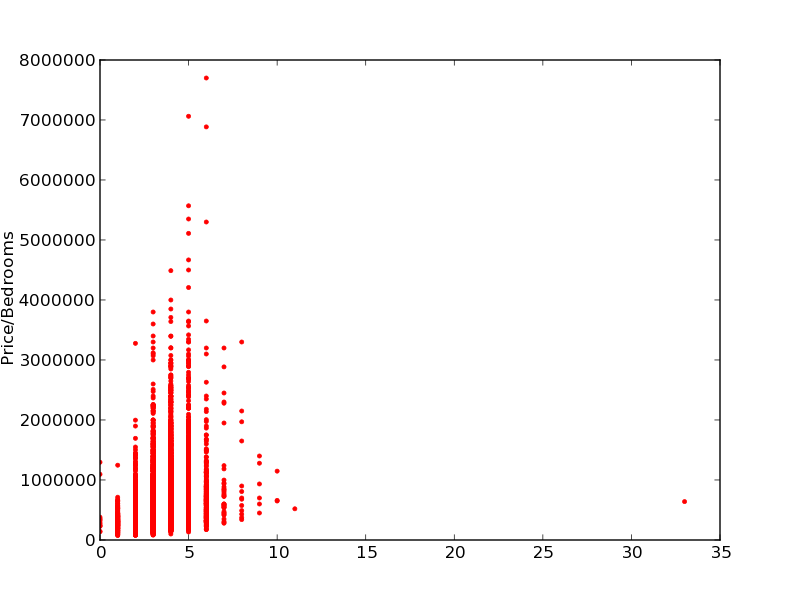
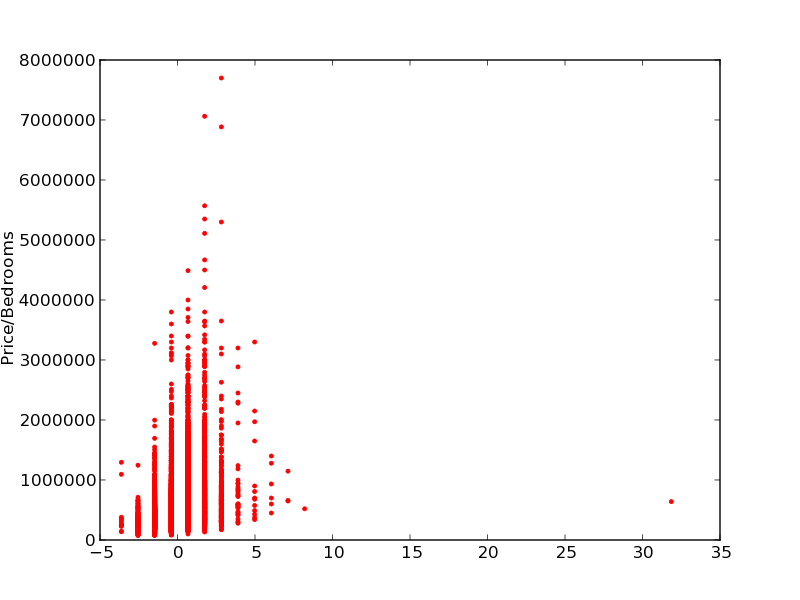
m

diff --git a/house_price/predict.py b/house_price/predict.py
@@ -18,27 +18,240 @@ def get_timestamp(date):
     timestamp = time.mktime(datetime.datetime.strptime(date, "%Y%m%d").timetuple())
     return timestamp
 
+def deviation_score(x, data):
+    return (x - numpy.mean(data)) / numpy.std(data, ddof = 1)
+
 def plot_date(data):
     py = data['price']
     px = [get_timestamp(date) for date in data['date']]
-    plt.plot([numpy.log(x) for x in px], [numpy.log(y) for y in py], 'r.')
+    mean_px = numpy.mean(px)
+    std_px = numpy.std(px)
+    fx = lambda x : (x - mean_px) / std_px
+    plt.plot([fx(x) for x in px], py, 'r.')
     plt.ylabel('Price/Date')
-    plt.savefig('price-date_transform.png')
+    plt.savefig('price-date.png')
     plt.clf()
     
 def plot_bedrooms(data):
     py = data['price']
     px = data['bedrooms']
-    #plt.plot([numpy.log(x) for x in px], [numpy.log(y) for y in py], 'r.')
-    plt.plot(px, [numpy.log(y) for y in py], 'r.')
+    mean_px = numpy.mean(px)
+    std_px = numpy.std(px)
+    fx = lambda x : (x - mean_px) / std_px
+    plt.plot([fx(x) for x in px], py, 'r.')
     plt.ylabel('Price/Bedrooms')
-    plt.savefig('price-bedrooms_transform.png')
+    plt.savefig('price-bedrooms.png')
+    plt.clf()
+
+def plot_bathrooms(data):
+    py = data['price']
+    px = data['bathrooms']
+    mean_px = numpy.mean(px)
+    std_px = numpy.std(px)
+    fx = lambda x : (x - mean_px) / std_px
+    plt.plot([fx(x) for x in px], py, 'r.')
+    plt.ylabel('Price/Bathrooms')
+    plt.savefig('price-bathrooms.png')
+    plt.clf()
+
+def plot_sqft_living(data):
+    py = data['price']
+    px = data['sqft_living']
+    mean_px = numpy.mean(px)
+    std_px = numpy.std(px)
+    fx = lambda x : (x - mean_px) / std_px
+    plt.plot([fx(x) for x in px], py, 'r.')
+    plt.ylabel('Price/sqft_living')
+    plt.savefig('price-sqft_living.png')
+    plt.clf()
+
+def plot_sqft_lot(data):
+    py = data['price']
+    px = data['sqft_lot']
+    mean_px = numpy.mean(px)
+    std_px = numpy.std(px)
+    fx = lambda x : (x - mean_px) / std_px
+    plt.plot([fx(x) for x in px], py, 'r.')
+    plt.ylabel('Price/sqft_lot')
+    plt.savefig('price-sqft_lot.png')
+    plt.clf()
+
+def plot_floors(data):
+    py = data['price']
+    px = data['floors']
+    mean_px = numpy.mean(px)
+    std_px = numpy.std(px)
+    fx = lambda x : (x - mean_px) / std_px
+    plt.plot([fx(x) for x in px], py, 'r.')
+    plt.ylabel('Price/Floors')
+    plt.savefig('price-floors.png')
+    plt.clf()
+
+def plot_waterfront(data):
+    py = data['price']
+    px = data['waterfront']
+    mean_px = numpy.mean(px)
+    std_px = numpy.std(px)
+    fx = lambda x : (x - mean_px) / std_px
+    plt.plot([fx(x) for x in px], py, 'r.')
+    plt.ylabel('Price/Waterfront')
+    plt.savefig('price-waterfront.png')
+    plt.clf()
+
+def plot_view(data):
+    py = data['price']
+    px = data['view']
+    mean_px = numpy.mean(px)
+    std_px = numpy.std(px)
+    fx = lambda x : (x - mean_px) / std_px
+    plt.plot([fx(x) for x in px], py, 'r.')
+    plt.ylabel('Price/View')
+    plt.savefig('price-view.png')
+    plt.clf()
+
+def plot_condition(data):
+    py = data['price']
+    px = data['condition']
+    mean_px = numpy.mean(px)
+    std_px = numpy.std(px)
+    fx = lambda x : (x - mean_px) / std_px
+    plt.plot([fx(x) for x in px], py, 'r.')
+    plt.ylabel('Price/Condition')
+    plt.savefig('price-condition.png')
+    plt.clf()
+
+def plot_grade(data):
+    py = data['price']
+    px = data['grade']
+    mean_px = numpy.mean(px)
+    std_px = numpy.std(px)
+    fx = lambda x : (x - mean_px) / std_px
+    plt.plot([fx(x) for x in px], py, 'r.')
+    plt.ylabel('Price/Grade')
+    plt.savefig('price-grade.png')
+    plt.clf()
+
+def plot_sqft_above(data):
+    py = data['price']
+    px = data['sqft_above']
+    mean_px = numpy.mean(px)
+    std_px = numpy.std(px)
+    fx = lambda x : (x - mean_px) / std_px
+    plt.plot([fx(x) for x in px], py, 'r.')
+    plt.ylabel('Price/Sqft_above')
+    plt.savefig('price-sqft_above.png')
+    plt.clf()
+
+def plot_sqft_basement(data):
+    py = data['price']
+    px = data['sqft_basement']
+    mean_px = numpy.mean(px)
+    std_px = numpy.std(px)
+    fx = lambda x : (x - mean_px) / std_px
+    plt.plot([fx(x) for x in px], py, 'r.')
+    plt.ylabel('Price/sqft_basement')
+    plt.savefig('price-sqft_basement.png')
+    plt.clf()
+
+def plot_yr_built(data):
+    py = data['price']
+    px = data['yr_built']
+    mean_px = numpy.mean(px)
+    std_px = numpy.std(px)
+    fx = lambda x : (x - mean_px) / std_px
+    plt.plot([fx(x) for x in px], py, 'r.')
+    plt.ylabel('Price/yr_built')
+    plt.savefig('price-yr_built.png')
+    plt.clf()
+
+def plot_yr_renovated(data):
+    py = data['price']
+    px = data['yr_renovated']
+    mean_px = numpy.mean(px)
+    std_px = numpy.std(px)
+    fx = lambda x : (x - mean_px) / std_px
+    plt.plot([fx(x) for x in px], py, 'r.')
+    plt.ylabel('Price/yr_renovated')
+    plt.savefig('price-yr_renovated.png')
+    plt.clf()
+
+def plot_zipcode(data):
+    py = data['price']
+    px = data['zipcode']
+    mean_px = numpy.mean(px)
+    std_px = numpy.std(px)
+    fx = lambda x : (x - mean_px) / std_px
+    plt.plot([fx(x) for x in px], py, 'r.')
+    plt.ylabel('Price/zipcode')
+    plt.savefig('price-zipcode.png')
+    plt.clf()
+
+def plot_lat(data):
+    py = data['price']
+    px = data['lat']
+    mean_px = numpy.mean(px)
+    std_px = numpy.std(px)
+    fx = lambda x : (x - mean_px) / std_px
+    plt.plot([fx(x) for x in px], py, 'r.')
+    plt.ylabel('Price/lat')
+    plt.savefig('price-lat.png')
+    plt.clf()
+
+def plot_long(data):
+    py = data['price']
+    px = data['long']
+    mean_px = numpy.mean(px)
+    std_px = numpy.std(px)
+    fx = lambda x : (x - mean_px) / std_px
+    plt.plot([fx(x) for x in px], py, 'r.')
+    plt.ylabel('Price/long')
+    plt.savefig('price-long.png')
+    plt.clf()
+
+def plot_sqft_living15(data):
+    py = data['price']
+    px = data['sqft_living15']
+    mean_px = numpy.mean(px)
+    std_px = numpy.std(px)
+    fx = lambda x : (x - mean_px) / std_px
+    plt.plot([fx(x) for x in px], py, 'r.')
+    plt.ylabel('Price/sqft_living15')
+    plt.savefig('price-sqft_living15.png')
+    plt.clf()
+
+def plot_sqft_lot15(data):
+    py = data['price']
+    px = data['sqft_lot15']
+    mean_px = numpy.mean(px)
+    std_px = numpy.std(px)
+    fx = lambda x : (x - mean_px) / std_px
+    plt.plot([fx(x) for x in px], py, 'r.')
+    plt.ylabel('Price/sqft_lot15')
+    plt.savefig('price-sqft_lot15.png')
     plt.clf()
 
 def main():
     data = read_csv('kc_house_data.csv')
     #plot_date(data)
-    plot_bedrooms(data)
+    #plot_bedrooms(data)
+    #plot_bathrooms(data)
+    #plot_sqft_living(data)
+    #plot_sqft_lot(data)
+    #plot_floors(data)
+    #plot_waterfront(data)
+    #plot_view(data)
+    #plot_condition(data)
+    #plot_grade(data)
+    #plot_sqft_above(data)
+    #plot_sqft_basement(data)
+    #plot_yr_built(data)
+    #plot_yr_renovated(data)
+    #plot_zipcode(data)
+    #plot_lat(data)
+    #plot_long(data)
+    #plot_sqft_living15(data)
+    plot_sqft_lot15(data)
+
 
 if __name__ == "__main__":
     main()
